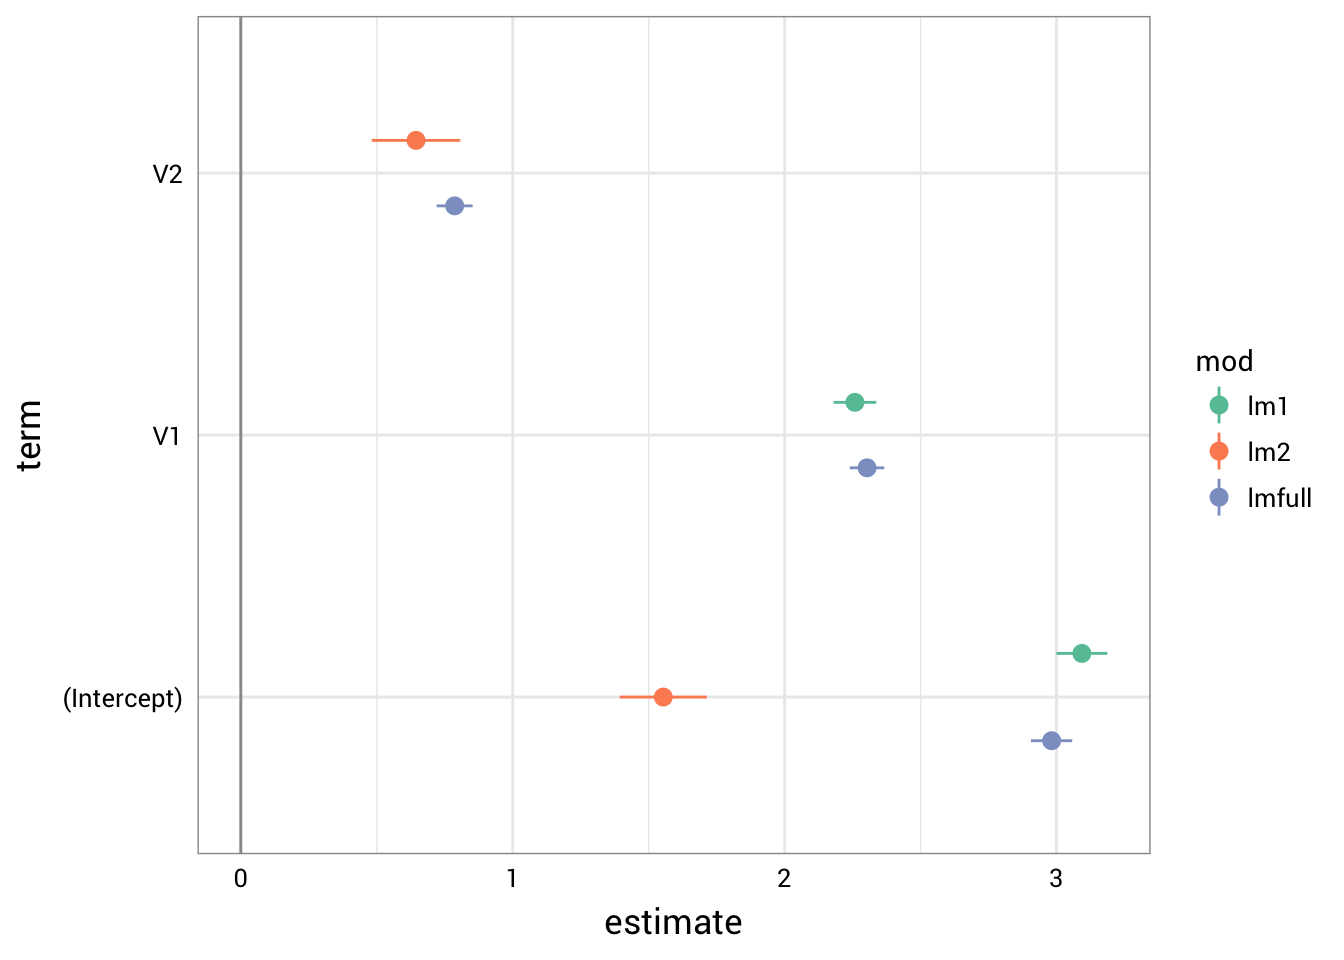
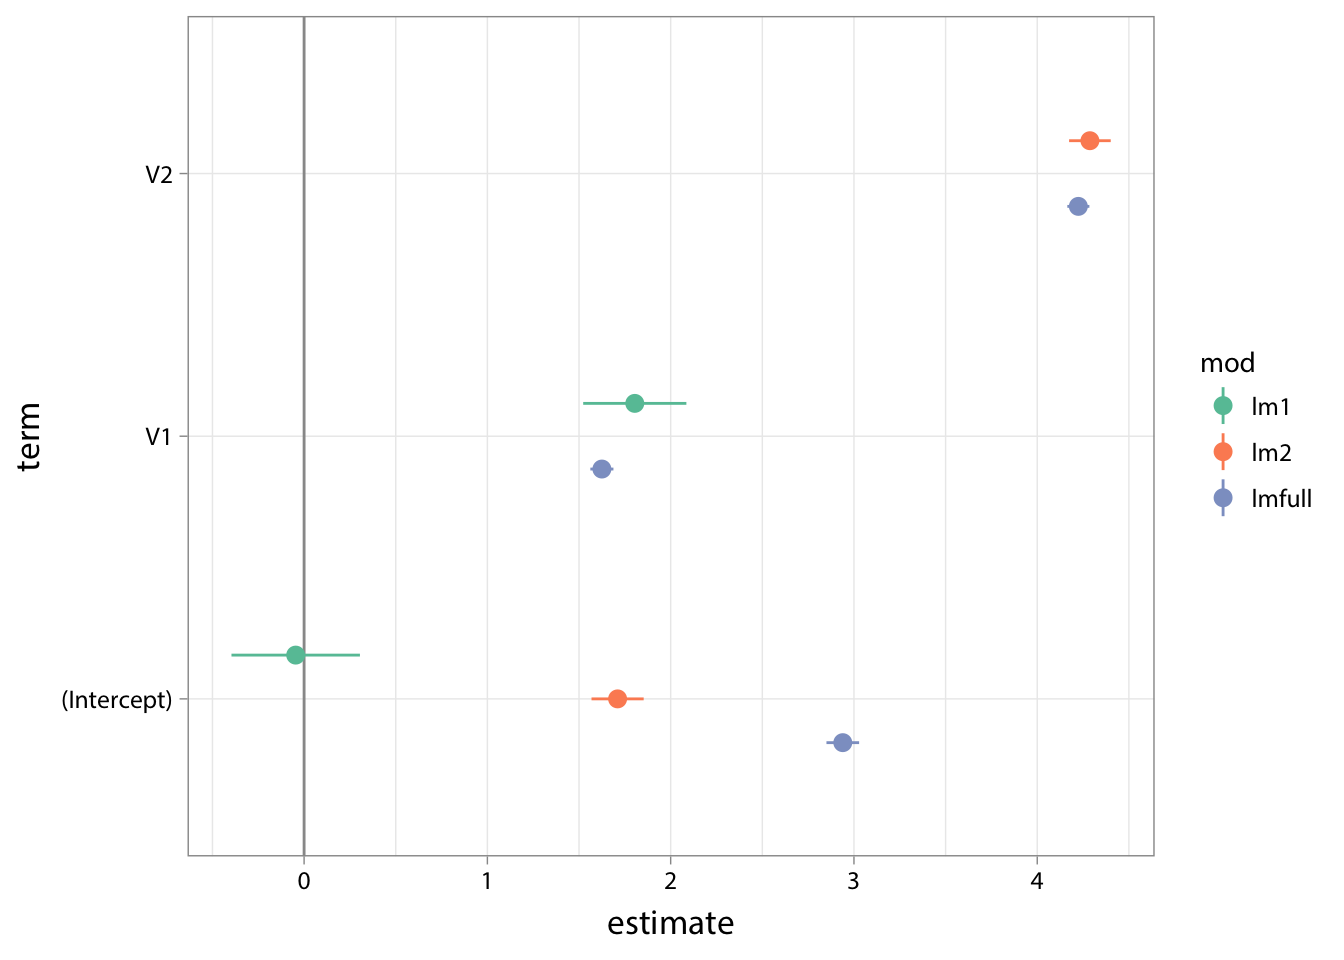
Site build Wed Sep  5 14:50:53 CDT 2018

diff --git a/post/2018/06/15/bayes-r-workflow/index.html b/post/2018/06/15/bayes-r-workflow/index.html
@@ -101,18 +101,18 @@ d &lt;- rmvnorm(n = n, mean = rnorm(n = k)) %&gt;%
          y = mu + error) %&gt;% 
   print()
 ## # A tibble: 1,000 x 5
-##        V1     V2    mu  error     y
-##     &lt;dbl&gt;  &lt;dbl&gt; &lt;dbl&gt;  &lt;dbl&gt; &lt;dbl&gt;
-##  1  1.27  -0.580  3.76 -1.94   1.83
-##  2  1.80  -0.603  4.54  1.15   5.69
-##  3  1.68   1.09   7.90  0.304  8.20
-##  4 -0.739  0.636  3.18  0.227  3.41
-##  5  1.46   1.10   7.56 -0.573  6.98
-##  6  1.01   1.55   7.81 -0.161  7.64
-##  7  2.44   0.664  8.16  0.131  8.29
-##  8  1.90  -1.32   3.20 -0.328  2.87
-##  9  1.03   0.799  6.26 -0.453  5.81
-## 10  1.32   2.54  10.4  -0.998  9.36
+##        V1      V2     mu   error      y
+##     &lt;dbl&gt;   &lt;dbl&gt;  &lt;dbl&gt;   &lt;dbl&gt;  &lt;dbl&gt;
+##  1 -0.186  0.0619 2.61    0.277   2.89 
+##  2 -0.914 -0.406  0.548  -0.792  -0.244
+##  3 -1.34   0.611  0.326  -1.19   -0.865
+##  4 -0.859  0.507  1.37   -1.19    0.183
+##  5  0.161  0.872  4.04   -1.42    2.62 
+##  6 -0.503 -1.02   1.04    1.25    2.30 
+##  7  0.101 -0.239  3.06   -1.95    1.11 
+##  8 -0.898 -1.09   0.0670 -1.75   -1.68 
+##  9  0.116  0.613  3.74    2.18    5.91 
+## 10  1.02   1.09   6.21    0.0489  6.26 
 ## # ... with 990 more rows
 
 #  custom ggtheme, import from Github
@@ -145,22 +145,22 @@ freq_coefs &lt;-
             mutate(tidy(lm2, conf.int = TRUE), mod = &quot;lm2&quot;),
             mutate(tidy(lmfull, conf.int = TRUE), mod = &quot;lmfull&quot;)) %&gt;% 
   print()
-##          term estimate  std.error statistic       p.value conf.low
-## 1 (Intercept) 4.680039 0.11936184  39.20884 2.906014e-204 4.445810
-## 2          V1 1.502689 0.07176697  20.93845  5.519350e-81 1.361858
-## 3 (Intercept) 5.139186 0.07528010  68.26752  0.000000e+00 4.991461
-## 4          V2 1.960283 0.05911084  33.16284 3.553488e-163 1.844287
-## 5 (Intercept) 2.973564 0.05906361  50.34511 4.552356e-276 2.857661
-## 6          V1 1.588007 0.03173513  50.03940 3.535564e-274 1.525732
-## 7          V2 2.026521 0.03158796  64.15485  0.000000e+00 1.964534
+##          term  estimate  std.error statistic       p.value  conf.low
+## 1 (Intercept) 3.0932245 0.04766541 64.894536  0.000000e+00 2.9996886
+## 2          V1 2.2585801 0.04006598 56.371515 1.910671e-312 2.1799569
+## 3 (Intercept) 1.5538298 0.08160418 19.041058  3.380290e-69 1.3936944
+## 4          V2 0.6444303 0.08303319  7.761116  2.076774e-14 0.4814906
+## 5 (Intercept) 2.9820143 0.03863958 77.175122  0.000000e+00 2.9061901
+## 6          V1 2.3031494 0.03228793 71.331593  0.000000e+00 2.2397893
+## 7          V2 0.7864880 0.03368527 23.348129  1.577645e-96 0.7203859
 ##   conf.high    mod
-## 1  4.914268    lm1
-## 2  1.643521    lm1
-## 3  5.286911    lm2
-## 4  2.076279    lm2
-## 5  3.089467 lmfull
-## 6  1.650282 lmfull
-## 7  2.088507 lmfull
+## 1 3.1867604    lm1
+## 2 2.3372034    lm1
+## 3 1.7139653    lm2
+## 4 0.8073700    lm2
+## 5 3.0578385 lmfull
+## 6 2.3665095 lmfull
+## 7 0.8525902 lmfull
 
 # a quick plot
 # object `mgray` exported by 
@@ -182,59 +182,59 @@ vary_v1 &lt;- d %$%
   data_frame(V1 = seq(min(V1), max(V1), .1),
              V2 = mean(V2)) %&gt;% 
   print()
-## # A tibble: 60 x 2
-##        V1    V2
-##     &lt;dbl&gt; &lt;dbl&gt;
-##  1 -1.65  0.786
-##  2 -1.55  0.786
-##  3 -1.45  0.786
-##  4 -1.35  0.786
-##  5 -1.25  0.786
-##  6 -1.15  0.786
-##  7 -1.05  0.786
-##  8 -0.952 0.786
-##  9 -0.852 0.786
-## 10 -0.752 0.786
-## # ... with 50 more rows
+## # A tibble: 72 x 2
+##       V1    V2
+##    &lt;dbl&gt; &lt;dbl&gt;
+##  1 -4.45 0.177
+##  2 -4.35 0.177
+##  3 -4.25 0.177
+##  4 -4.15 0.177
+##  5 -4.05 0.177
+##  6 -3.95 0.177
+##  7 -3.85 0.177
+##  8 -3.75 0.177
+##  9 -3.65 0.177
+## 10 -3.55 0.177
+## # ... with 62 more rows
 
 # hold V1 constant, vary V2
 vary_v2 &lt;- d %$% 
   data_frame(V1 = mean(V1),
              V2 = seq(min(V2), max(V2), .1)) %&gt;% 
   print()
-## # A tibble: 67 x 2
-##       V1    V2
-##    &lt;dbl&gt; &lt;dbl&gt;
-##  1  1.33 -2.60
-##  2  1.33 -2.50
-##  3  1.33 -2.40
-##  4  1.33 -2.30
-##  5  1.33 -2.20
-##  6  1.33 -2.10
-##  7  1.33 -2.00
-##  8  1.33 -1.90
-##  9  1.33 -1.80
-## 10  1.33 -1.70
-## # ... with 57 more rows</code></pre>
+## # A tibble: 73 x 2
+##        V1    V2
+##     &lt;dbl&gt; &lt;dbl&gt;
+##  1 -0.631 -3.31
+##  2 -0.631 -3.21
+##  3 -0.631 -3.11
+##  4 -0.631 -3.01
+##  5 -0.631 -2.91
+##  6 -0.631 -2.81
+##  7 -0.631 -2.71
+##  8 -0.631 -2.61
+##  9 -0.631 -2.51
+## 10 -0.631 -2.41
+## # ... with 63 more rows</code></pre>
 <p>A quick trick: we don’t have to generate predictions for these data frames separately. We could just combine the data and then generate predictions. While we could do this with <code>mutate()</code> and <code>bind_rows()</code> as above, we can be a little more efficient with <code>list()</code>.</p>
 <pre class="r"><code>designs &lt;- 
   list(V1 = vary_v1, V2 = vary_v2) %&gt;% 
   bind_rows(.id = &quot;varied&quot;) %&gt;% 
   print()
-## # A tibble: 127 x 3
-##    varied     V1    V2
-##    &lt;chr&gt;   &lt;dbl&gt; &lt;dbl&gt;
-##  1 V1     -1.65  0.786
-##  2 V1     -1.55  0.786
-##  3 V1     -1.45  0.786
-##  4 V1     -1.35  0.786
-##  5 V1     -1.25  0.786
-##  6 V1     -1.15  0.786
-##  7 V1     -1.05  0.786
-##  8 V1     -0.952 0.786
-##  9 V1     -0.852 0.786
-## 10 V1     -0.752 0.786
-## # ... with 117 more rows</code></pre>
+## # A tibble: 145 x 3
+##    varied    V1    V2
+##    &lt;chr&gt;  &lt;dbl&gt; &lt;dbl&gt;
+##  1 V1     -4.45 0.177
+##  2 V1     -4.35 0.177
+##  3 V1     -4.25 0.177
+##  4 V1     -4.15 0.177
+##  5 V1     -4.05 0.177
+##  6 V1     -3.95 0.177
+##  7 V1     -3.85 0.177
+##  8 V1     -3.75 0.177
+##  9 V1     -3.65 0.177
+## 10 V1     -3.55 0.177
+## # ... with 135 more rows</code></pre>
 <p>When the data are in place, generating predictions using <code>augment()</code> is simple.</p>
 <pre class="r"><code># use the t statistic to create confidence intervals
 critical_t &lt;- 
@@ -247,20 +247,20 @@ preds &lt;- augment(lmfull, newdata = designs) %&gt;%
          upper = .fitted + (critical_t * .se.fit)) %&gt;% 
   as_data_frame() %&gt;%  
   print()
-## # A tibble: 127 x 7
-##    varied     V1    V2 .fitted .se.fit lower upper
-##    &lt;chr&gt;   &lt;dbl&gt; &lt;dbl&gt;   &lt;dbl&gt;   &lt;dbl&gt; &lt;dbl&gt; &lt;dbl&gt;
-##  1 V1     -1.65  0.786    1.94  0.0998  1.75  2.14
-##  2 V1     -1.55  0.786    2.10  0.0968  1.91  2.29
-##  3 V1     -1.45  0.786    2.26  0.0938  2.08  2.44
-##  4 V1     -1.35  0.786    2.42  0.0908  2.24  2.60
-##  5 V1     -1.25  0.786    2.58  0.0879  2.41  2.75
-##  6 V1     -1.15  0.786    2.74  0.0849  2.57  2.90
-##  7 V1     -1.05  0.786    2.90  0.0820  2.73  3.06
-##  8 V1     -0.952 0.786    3.05  0.0791  2.90  3.21
-##  9 V1     -0.852 0.786    3.21  0.0762  3.06  3.36
-## 10 V1     -0.752 0.786    3.37  0.0733  3.23  3.52
-## # ... with 117 more rows</code></pre>
+## # A tibble: 145 x 7
+##    varied    V1    V2 .fitted .se.fit lower upper
+##    &lt;chr&gt;  &lt;dbl&gt; &lt;dbl&gt;   &lt;dbl&gt;   &lt;dbl&gt; &lt;dbl&gt; &lt;dbl&gt;
+##  1 V1     -4.45 0.177   -7.12  0.127  -7.37 -6.87
+##  2 V1     -4.35 0.177   -6.89  0.124  -7.13 -6.64
+##  3 V1     -4.25 0.177   -6.66  0.121  -6.89 -6.42
+##  4 V1     -4.15 0.177   -6.43  0.118  -6.66 -6.19
+##  5 V1     -4.05 0.177   -6.20  0.115  -6.42 -5.97
+##  6 V1     -3.95 0.177   -5.97  0.112  -6.19 -5.75
+##  7 V1     -3.85 0.177   -5.74  0.109  -5.95 -5.52
+##  8 V1     -3.75 0.177   -5.51  0.106  -5.71 -5.30
+##  9 V1     -3.65 0.177   -5.27  0.103  -5.48 -5.07
+## 10 V1     -3.55 0.177   -5.04  0.0996 -5.24 -4.85
+## # ... with 135 more rows</code></pre>
 <p>And then plotting is done with <code>geom_ribbon</code>. We’ll elongate this data to plot the predictions in separate panels.</p>
 <pre class="r"><code>preds %&gt;% 
   gather(key = predictor, value = xval, V1, V2) %&gt;% 

diff --git a/teaching/index.html b/teaching/index.html
@@ -71,13 +71,14 @@
 <p>Workshops</p>
 
 <ul>
-<li>Political Science Grad Student Math Camp (UW&ndash;Madison, 2017). <a href="https://github.com/mikedecr/math-camp-2017">(2017 Materials)</a></li>
+<li>Political Science Grad Student Math Camp (UW&ndash;Madison, 2017). <a href="https://github.com/mikedecr/math-camp-2018">(2018 Materials)</a></li>
 <li>Political Science $\mathrm{\LaTeX}$ Workshop (UW&ndash;Madison, 2015&ndash;2017). <a href="https://github.com/mikedecr/latex-workshop">(2017 Materials)</a></li>
 </ul>
 
 <h1 id="as-teaching-assistant">As Teaching Assistant</h1>
 
 <ul>
+<li>Political Science 305: Elections and Voting Behavior (UW&ndash;Madison, Fall 2018)</li>
 <li>Political Science 544: Introduction to Survey Research Methods (UW&ndash;Madison, Spring 2017)</li>
 <li>Political Science 218: Understanding Political Numbers (UW&ndash;Madison, Fall 2015 and Fall 2016)</li>
 </ul>

diff --git a/811/811-basics/index.html b/811/811-basics/index.html
@@ -334,19 +334,19 @@ x &lt;- rnorm(n = 10000, mean = 0, sd = 1)
 
 # sum
 sum(x) </code></pre>
-<pre><code>## [1] 146.2512</code></pre>
+<pre><code>## [1] 63.62208</code></pre>
 <pre class="r"><code># number of elements in an object
 length(x) </code></pre>
 <pre><code>## [1] 10000</code></pre>
 <pre class="r"><code># mean
 mean(x) </code></pre>
-<pre><code>## [1] 0.01462512</code></pre>
+<pre><code>## [1] 0.006362208</code></pre>
 <pre class="r"><code># variance
 var(x) </code></pre>
-<pre><code>## [1] 1.014213</code></pre>
+<pre><code>## [1] 0.9823503</code></pre>
 <pre class="r"><code># standard deviation
 sd(x) </code></pre>
-<pre><code>## [1] 1.007082</code></pre>
+<pre><code>## [1] 0.9911359</code></pre>
 <p>It is easy to write your own functions in R. We will cover this in the final lesson.</p>
 </div>
 <div id="help-files" class="section level1">
